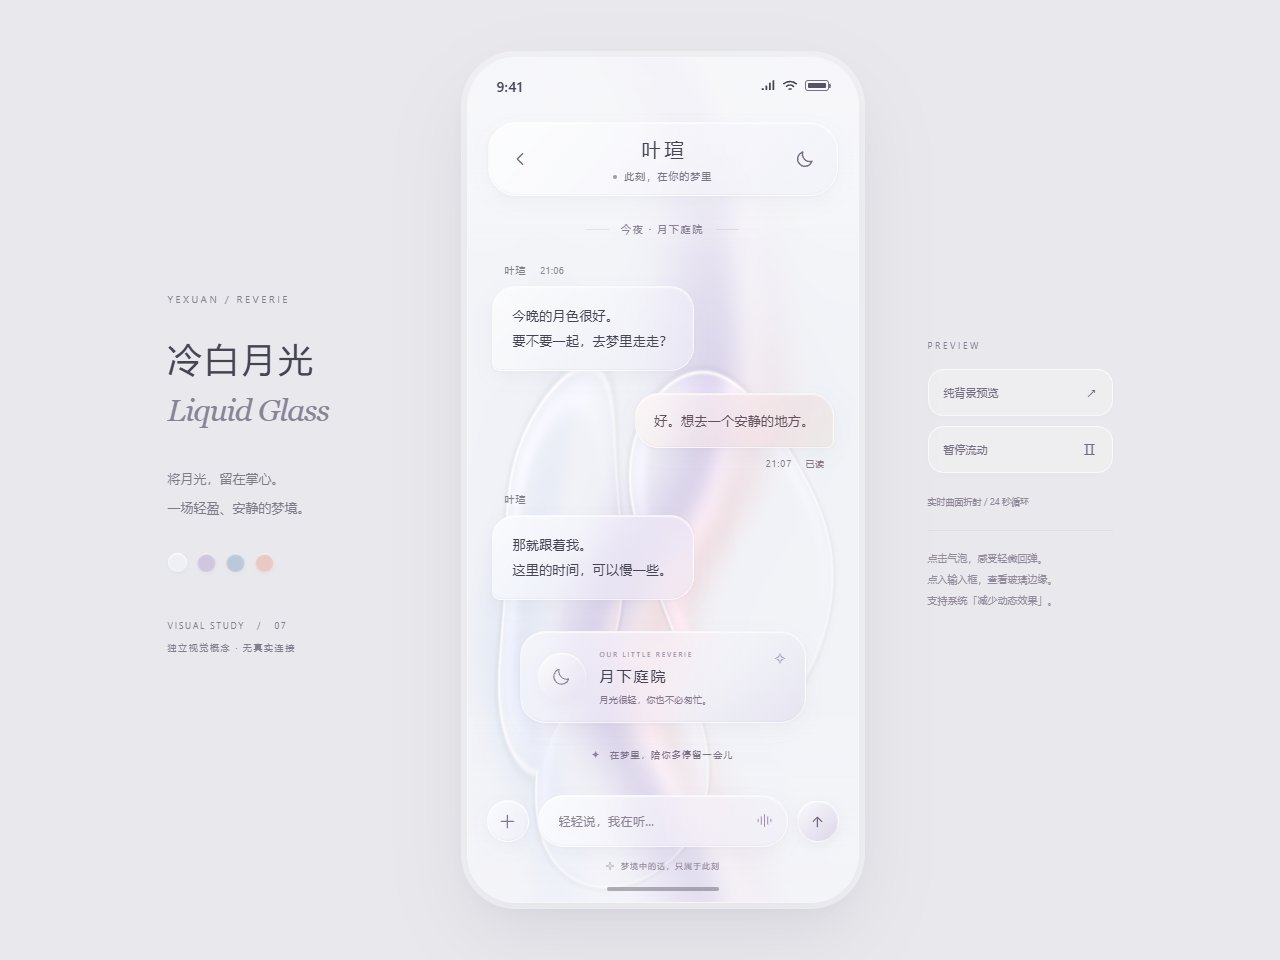
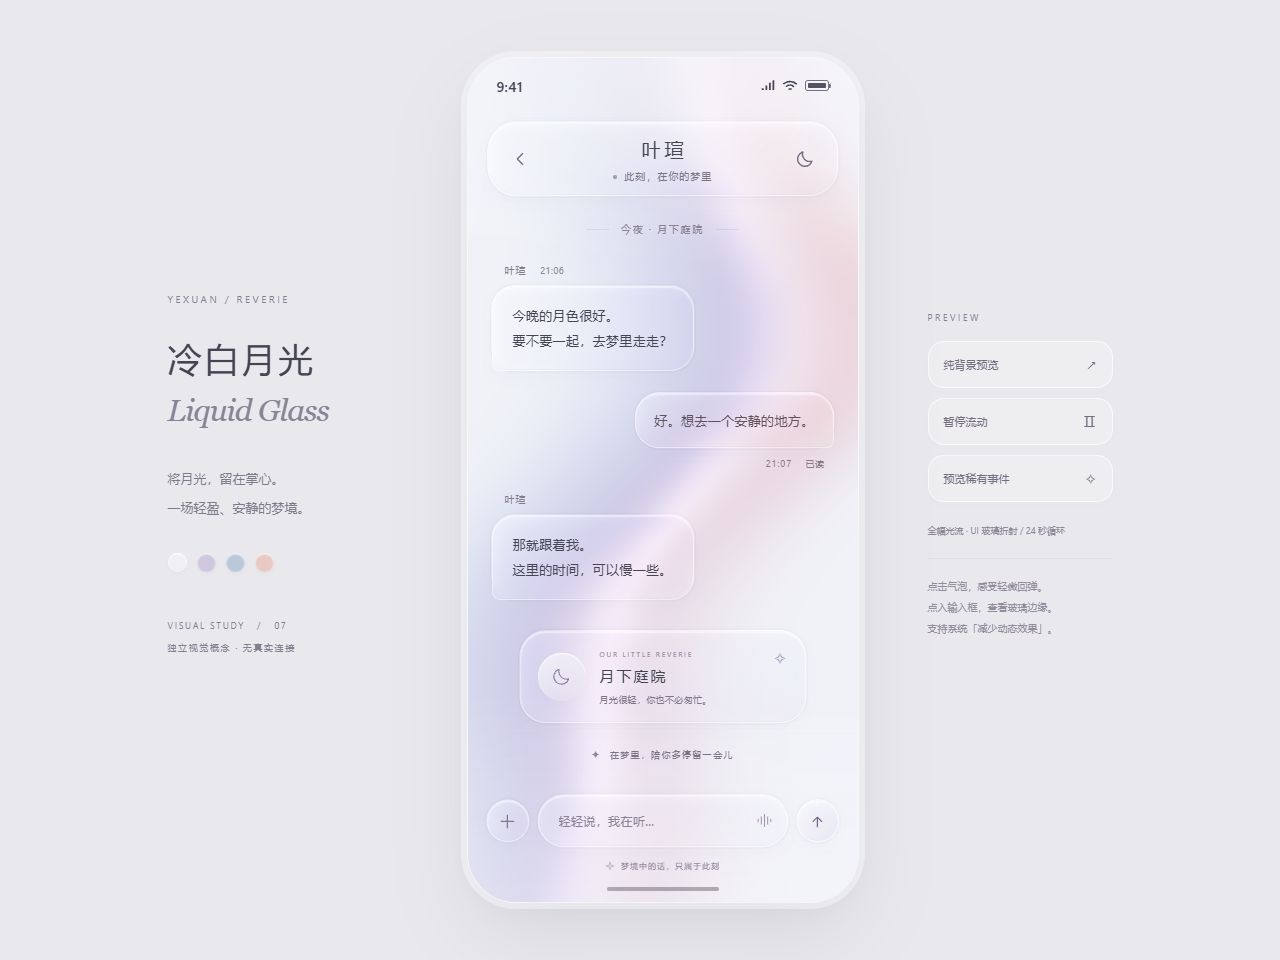
design: make UI bubbles refract full-screen light with rare spectral events

diff --git a/mobile-design-reference/g-moonlight.js b/mobile-design-reference/g-moonlight.js
@@ -4,64 +4,78 @@
 const canvas=document.querySelector('#liquid'),device=document.querySelector('.device');
 const status=document.querySelector('#renderStatus');
 const reduce=matchMedia('(prefers-reduced-motion: reduce)');
-let paused=false,frame=0,phase=0,last=0,disposed=false,gl,program,loc;
+let paused=false,frame=0,phase=0,last=0,disposed=false,gl,program,loc,eventActive=false;
+let panelData=new Float32Array(40),radiusData=new Float32Array(10),specialData=new Float32Array(10);
 const vertex=`attribute vec2 position;void main(){gl_Position=vec4(position,0.,1.);}`;
 const fragment=`
 precision highp float;
 uniform vec2 resolution;
+uniform vec2 viewport;
 uniform float phase;
-mat2 rot(float a){float c=cos(a),s=sin(a);return mat2(c,-s,s,c);}
-float sheet(vec2 p,vec2 center,vec2 size,float angle){
- p=rot(angle)* (p-center);
- p.x+=.065*sin(p.y*2.8+phase)*sin(p.y*1.4+.6);
- return (length(p/size)-1.)*min(size.x,size.y);
+uniform float uiVisible;
+uniform float eventActive;
+uniform vec4 panels[10];
+uniform float radii[10];
+uniform float special[10];
+float roundedBox(vec2 p,vec2 halfSize,float r){vec2 q=abs(p)-halfSize+r;return length(max(q,0.))+min(max(q.x,q.y),0.)-r;}
+float river(vec2 p){
+ float spine=.58*sin(phase)+.52*sin(p.y*1.12+.40*cos(phase))+.16*sin(p.y*2.7-.38*sin(phase));
+ return p.x-spine;
 }
-float surface(vec2 p){
- float a=sheet(p,vec2(-.50,-.46),vec2(.30,1.04),-.13+.025*sin(phase));
- float b=sheet(p,vec2(.37,-.30),vec2(.46,.87),.18+.03*cos(phase));
- float c=sheet(p,vec2(-.20,-1.49),vec2(.44,.60),-.32+.025*cos(phase));
- return min(a,min(b,c));
-}
+float energy(vec2 p){return exp(-pow(river(p)*1.9,2.));}
 vec3 lightField(vec2 p){
- vec3 c=vec3(.946,.951,.969);
- float path=.20+.29*sin(p.y*1.65+.23*sin(phase))+.08*cos(p.y*3.3-.17*cos(phase));
- float d=p.x-path;
- float violet=exp(-pow((d+.16)*4.1,2.));
- float silver=exp(-pow((d-.04)*10.,2.));
- float rose=exp(-pow((d-.11)*6.5,2.))*exp(-pow((p.y+.65)*.85,2.));
- c=mix(c,vec3(.77,.71,.87),violet*.48);
- c=mix(c,vec3(.98,.967,.983),silver*.61);
- c=mix(c,vec3(.94,.78,.77),rose*.36);
- float left=-.66+.14*sin(p.y*2.1+.20*cos(phase));
- float fold=exp(-pow((p.x-left)*7.,2.))*exp(-pow((p.y+1.)*.7,2.));
- c=mix(c,vec3(.80,.85,.94),fold*.36);
- return c;
+ vec3 c=vec3(.943,.950,.971);
+ float d=river(p);
+ float violet=exp(-pow((d+.24)*1.75,2.));
+ float blue=exp(-pow((d+.65)*2.1,2.));
+ float pearl=exp(-pow((d-.02)*4.6,2.));
+ float rose=exp(-pow((d-.31)*2.75,2.))*(.65+.35*sin(p.y*1.2+phase));
+ c=mix(c,vec3(.75,.69,.86),violet*.66);
+ c=mix(c,vec3(.77,.86,.94),blue*.25);
+ c=mix(c,vec3(.985,.970,.987),pearl*.61);
+ c=mix(c,vec3(.955,.785,.783),rose*.48);
+ float fold=exp(-pow((d+.07+.13*sin(p.y*2.+phase))*8.,2.));
+ c+=vec3(.027,.023,.030)*fold;
+ // The light crosses almost the whole display; top remains quiet for status.
+ float top=smoothstep(.85,2.05,p.y);
+ return mix(c,vec3(.960,.965,.978),top*.68);
 }
 void main(){
+ vec2 pixel=vec2(gl_FragCoord.x/resolution.x*viewport.x,(1.-gl_FragCoord.y/resolution.y)*viewport.y);
  vec2 p=(gl_FragCoord.xy*2.-resolution.xy)/resolution.y*2.15;
  vec3 color=lightField(p);
- float d=surface(p);
- vec2 e=vec2(.003,0.);
- vec2 grad=normalize(vec2(surface(p+e.xy)-surface(p-e.xy),surface(p+e.yx)-surface(p-e.yx)));
- float cover=1.-smoothstep(-.002,.005,d);
- // Thin optical skin: essentially clear centres, stronger refraction only
- // at the curved edges. There is no opaque mass or thick toroidal body.
- float bend=exp(-max(-d,0.)*9.);
- vec2 lens=p+grad*(.025+.115*bend)+vec2(.018*sin(p.y*3.+phase),0.);
- vec3 through=lightField(lens);
- color=mix(color,through,cover*.82);
- float innerGlow=exp(-pow((d+.045)*34.,2.));
- float edge=exp(-pow(d*185.,2.));
- float shade=exp(-pow((d-.011)*100.,2.));
- float illumination=.5+.5*dot(grad,normalize(vec2(-.6,.8)));
- color-=vec3(.08,.078,.09)*shade*.34;
- color=mix(color,vec3(1.,.995,1.),edge*(.40+.48*illumination));
- color+=vec3(.036,.029,.04)*innerGlow*cover*illumination;
- // A refracted ribbon of light inside each transparent sheet.
- float streak=exp(-pow((lens.x-.23-.27*sin(lens.y*1.65+.23*sin(phase)))*15.,2.));
- color+=vec3(.034,.02,.027)*streak*cover;
- float top=smoothstep(.4,1.9,p.y);
- color=mix(color,vec3(.967,.970,.981),top*.8);
+ for(int i=0;i<10;i++){
+  vec4 box=panels[i];
+  if(box.z>0.&&uiVisible>.5){
+   vec2 local=pixel-box.xy-box.zw*.5;
+   float r=min(radii[i],min(box.z,box.w)*.5);
+   float d=roundedBox(local,box.zw*.5,r);
+   float cover=1.-smoothstep(-.7,.7,d);
+   if(d<3.){
+    vec2 normal=normalize(vec2(roundedBox(local+vec2(.5,0.),box.zw*.5,r)-roundedBox(local-vec2(.5,0.),box.zw*.5,r),roundedBox(local+vec2(0.,.5),box.zw*.5,r)-roundedBox(local-vec2(0.,.5),box.zw*.5,r))+vec2(.0001));
+    normal.y=-normal.y;
+    float bend=exp(-max(-d,0.)/8.);
+    vec2 lens=p+normal*(.020+.105*bend);
+    vec3 transmitted=lightField(lens);
+    float rarer=special[i]*eventActive;
+    if(rarer>.5){
+     // An exceptional optical response, driven by THE SAME river, not an
+     // unrelated rainbow animation: the passing wave changes spectrum.
+     float wave=energy(lens);
+     float spectral=river(lens)*3.4+lens.y*.95;
+     vec3 rainbow=.5+.5*cos(spectral+vec3(0.,2.094,4.188));
+     vec3 inverted=vec3(.25,.22,.36)+(1.-transmitted)*.43;
+     transmitted=mix(inverted,inverted+rainbow*.43,wave*.86);
+    }
+    color=mix(color,transmitted,cover*.93);
+    float edge=exp(-pow(d*1.5,2.));
+    float inner=exp(-pow((d+2.0)*.64,2.));
+    float lit=.55+.45*dot(normal,normalize(vec2(-.6,.8)));
+    color+=vec3(.08)*edge*lit+vec3(.032)*inner*cover*lit;
+    color-=vec3(.026,.024,.03)*exp(-pow((d-1.2)*1.3,2.));
+   }
+  }
+ }
  gl_FragColor=vec4(clamp(color,0.,1.),1.);
 }`;
 function shader(type,source){const s=gl.createShader(type);gl.shaderSource(s,source);gl.compileShader(s);if(!gl.getShaderParameter(s,gl.COMPILE_STATUS))throw Error(gl.getShaderInfoLog(s));return s;}
@@ -69,14 +83,15 @@ function init(){
  gl=canvas.getContext('webgl',{alpha:false,antialias:false,depth:false,powerPreference:'low-power',preserveDrawingBuffer:true});
  if(!gl)throw Error('WebGL unavailable');
  program=gl.createProgram();const vs=shader(gl.VERTEX_SHADER,vertex),fs=shader(gl.FRAGMENT_SHADER,fragment);gl.attachShader(program,vs);gl.attachShader(program,fs);gl.linkProgram(program);if(!gl.getProgramParameter(program,gl.LINK_STATUS))throw Error(gl.getProgramInfoLog(program));gl.useProgram(program);gl.deleteShader(vs);gl.deleteShader(fs);
- const buffer=gl.createBuffer();gl.bindBuffer(gl.ARRAY_BUFFER,buffer);gl.bufferData(gl.ARRAY_BUFFER,new Float32Array([-1,-1,1,-1,-1,1,-1,1,1,-1,1,1]),gl.STATIC_DRAW);const attr=gl.getAttribLocation(program,'position');gl.enableVertexAttribArray(attr);gl.vertexAttribPointer(attr,2,gl.FLOAT,false,0,0);loc={res:gl.getUniformLocation(program,'resolution'),phase:gl.getUniformLocation(program,'phase')};
+ const buffer=gl.createBuffer();gl.bindBuffer(gl.ARRAY_BUFFER,buffer);gl.bufferData(gl.ARRAY_BUFFER,new Float32Array([-1,-1,1,-1,-1,1,-1,1,1,-1,1,1]),gl.STATIC_DRAW);const attr=gl.getAttribLocation(program,'position');gl.enableVertexAttribArray(attr);gl.vertexAttribPointer(attr,2,gl.FLOAT,false,0,0);loc={res:gl.getUniformLocation(program,'resolution'),phase:gl.getUniformLocation(program,'phase'),viewport:gl.getUniformLocation(program,'viewport'),panels:gl.getUniformLocation(program,'panels[0]'),radii:gl.getUniformLocation(program,'radii[0]'),special:gl.getUniformLocation(program,'special[0]'),visible:gl.getUniformLocation(program,'uiVisible'),event:gl.getUniformLocation(program,'eventActive')};
  document.querySelector('.fallback').style.display='none';canvas.style.display='block';
  resize();syncMotion();
 }
-function draw(){if(disposed||gl.isContextLost())return;gl.uniform2f(loc.res,canvas.width,canvas.height);gl.uniform1f(loc.phase,phase);gl.drawArrays(gl.TRIANGLES,0,6);}
-function resize(){if(!gl||disposed)return;const r=device.getBoundingClientRect();const scale=Math.min(1.15,devicePixelRatio,420/r.width);canvas.width=Math.round(r.width*scale);canvas.height=Math.round(r.height*scale);gl.viewport(0,0,canvas.width,canvas.height);draw();}
+function draw(){if(disposed||gl.isContextLost())return;gl.uniform2f(loc.res,canvas.width,canvas.height);gl.uniform1f(loc.phase,phase);gl.uniform2f(loc.viewport,device.clientWidth,device.clientHeight);gl.uniform4fv(loc.panels,panelData);gl.uniform1fv(loc.radii,radiusData);gl.uniform1fv(loc.special,specialData);gl.uniform1f(loc.visible,device.classList.contains("background-only")?0:1);gl.uniform1f(loc.event,eventActive?1:0);gl.drawArrays(gl.TRIANGLES,0,6);}
+function measurePanels(){const parent=device.getBoundingClientRect();panelData.fill(0);document.querySelectorAll(".nav.glass,.bubble.glass,.dream-card.glass,.composer .glass").forEach((el,i)=>{if(i>=10)return;const r=el.getBoundingClientRect();panelData.set([r.left-parent.left,r.top-parent.top,r.width,r.height],i*4);radiusData[i]=parseFloat(getComputedStyle(el).borderTopLeftRadius)||24;specialData[i]=el.classList.contains("dream-card")?1:0;});}
+function resize(){if(!gl||disposed)return;const r=device.getBoundingClientRect();const scale=Math.min(1.15,devicePixelRatio,420/r.width);canvas.width=Math.round(r.width*scale);canvas.height=Math.round(r.height*scale);gl.viewport(0,0,canvas.width,canvas.height);measurePanels();draw();}
 function loop(now){frame=0;if(document.hidden||paused||reduce.matches||disposed)return;if(!last)last=now;const delta=now-last;if(delta>=1000/24){phase=(phase+Math.min(delta,100)/24000*Math.PI*2)%(Math.PI*2);last=now;draw();}frame=requestAnimationFrame(loop);}
-function syncMotion(){cancelAnimationFrame(frame);frame=0;last=0;const still=paused||reduce.matches;document.body.classList.toggle('motion-off',still);const b=document.querySelector('#motionToggle');b.setAttribute('aria-pressed',String(still));b.innerHTML=reduce.matches?'系统已减少动态 <span>○</span>':paused?'继续流动 <span>▷</span>':'暂停流动 <span>Ⅱ</span>';b.disabled=reduce.matches;status.textContent=disposed?'静态 SVG 降级 / WebGL 不可用':still?'静止曲面 / 减少动态':'实时曲面折射 / 24 秒循环';if(!still&&!document.hidden&&!disposed)frame=requestAnimationFrame(loop);}
+function syncMotion(){cancelAnimationFrame(frame);frame=0;last=0;const still=paused||reduce.matches;document.body.classList.toggle('motion-off',still);const b=document.querySelector('#motionToggle');b.setAttribute('aria-pressed',String(still));b.innerHTML=reduce.matches?'系统已减少动态 <span>○</span>':paused?'继续流动 <span>▷</span>':'暂停流动 <span>Ⅱ</span>';b.disabled=reduce.matches;status.textContent=disposed?'静态 SVG 降级 / WebGL 不可用':still?'静止曲面 / 减少动态':'全幅光流 · UI 玻璃折射 / 24 秒循环';if(!still&&!document.hidden&&!disposed)frame=requestAnimationFrame(loop);}
 function fallback(error){disposed=true;cancelAnimationFrame(frame);canvas.style.display='none';document.querySelector('.fallback').style.display='block';status.textContent='静态 SVG 降级 / WebGL 不可用';console.warn('Moonlight WebGL fallback:',error.message);}
 try{init();}catch(error){fallback(error);}
 new ResizeObserver(resize).observe(device);
@@ -84,7 +99,9 @@ reduce.addEventListener('change',syncMotion);document.addEventListener('visibili
 canvas.addEventListener('webglcontextlost',event=>{event.preventDefault();fallback(Error('Context lost'));});
 canvas.addEventListener('webglcontextrestored',()=>{disposed=false;try{init();}catch(error){fallback(error);}});
 document.querySelector('#motionToggle').addEventListener('click',()=>{paused=!paused;syncMotion();});
-document.querySelector('#backgroundToggle').addEventListener('click',event=>{const active=device.classList.toggle('background-only');const ui=document.querySelector('#phoneUI');ui.inert=active;ui.setAttribute('aria-hidden',String(active));event.currentTarget.setAttribute('aria-pressed',String(active));event.currentTarget.innerHTML=active?'返回梦境界面 <span>↙</span>':'纯背景预览 <span>↗</span>';});
+document.querySelector('#backgroundToggle').addEventListener('click',event=>{const active=device.classList.toggle('background-only');const ui=document.querySelector('#phoneUI');ui.inert=active;ui.setAttribute('aria-hidden',String(active));event.currentTarget.setAttribute('aria-pressed',String(active));event.currentTarget.innerHTML=active?'返回梦境界面 <span>↙</span>':'纯背景预览 <span>↗</span>';draw();});
+document.querySelector(".conversation").addEventListener("scroll",()=>{measurePanels();draw();},{passive:true});
+document.querySelector("#eventToggle").addEventListener("click",event=>{eventActive=!eventActive;device.classList.toggle("rare-event",eventActive);event.currentTarget.setAttribute("aria-pressed",String(eventActive));event.currentTarget.innerHTML=eventActive?"收起稀有事件 <span>✧</span>":"预览稀有事件 <span>✧</span>";document.querySelector(".card-copy small").textContent=eventActive?"A RARE MOMENT":"OUR LITTLE REVERIE";document.querySelector(".card-copy strong").textContent=eventActive?"梦境交汇":"月下庭院";document.querySelector("#cardStatus").textContent=eventActive?"这一刻，月光有了新的颜色。":"月光很轻，你也不必匆忙。";measurePanels();draw();});
 let toastTimer;
 function toast(text){const el=document.querySelector('.toast');el.textContent=text;el.classList.add('show');clearTimeout(toastTimer);toastTimer=setTimeout(()=>el.classList.remove('show'),2200);}
 document.querySelectorAll('button').forEach(b=>{b.addEventListener('pointerdown',()=>b.classList.add('pressed'));['pointerup','pointercancel','pointerleave','blur'].forEach(name=>b.addEventListener(name,()=>b.classList.remove('pressed')));b.addEventListener('click',()=>{if(b.dataset.demo)toast(b.dataset.demo);});});

diff --git a/mobile-design-reference/g-moonlight.html b/mobile-design-reference/g-moonlight.html
@@ -18,7 +18,7 @@
 <aside class="editorial"><p class="eyebrow">YEXUAN / REVERIE</p><h1>冷白月光<span>Liquid Glass</span></h1><p class="intro">将月光，留在掌心。<br>一场轻盈、安静的梦境。</p><div class="palette" aria-label="月光银白、浅雾紫、冷灰蓝、玫瑰金"><i></i><i></i><i></i><i></i></div><p class="edition">VISUAL STUDY &nbsp; / &nbsp; 07<br>独立视觉概念 · 无真实连接</p></aside>
 <section class="device" aria-label="叶瑄梦境聊天视觉样机">
 <canvas id="liquid" aria-label="缓慢流动的冷白月光玻璃背景"></canvas>
-<div class="fallback" aria-hidden="true"><svg viewBox="0 0 390 844" preserveAspectRatio="xMidYMid slice"><defs><linearGradient id="body" x1="0" y1="0" x2="1" y2="1"><stop stop-color="#fff"/><stop offset=".32" stop-color="#cfc7de" stop-opacity=".45"/><stop offset=".52" stop-color="#faf9fc"/><stop offset=".72" stop-color="#e8c9c5" stop-opacity=".6"/><stop offset="1" stop-color="#bac8d9"/></linearGradient></defs><ellipse cx="105" cy="514" rx="52" ry="204" transform="rotate(7 105 514)" fill="url(#body)" fill-opacity=".2" stroke="#fff" stroke-opacity=".8" stroke-width="1"/><ellipse cx="266" cy="485" rx="88" ry="172" transform="rotate(-12 266 485)" fill="url(#body)" fill-opacity=".23" stroke="#fff" stroke-opacity=".8" stroke-width="1"/><ellipse cx="154" cy="710" rx="75" ry="110" transform="rotate(15 154 710)" fill="url(#body)" fill-opacity=".25" stroke="#fff" stroke-opacity=".8" stroke-width="1"/></svg></div>
+<div class="fallback" aria-hidden="true"></div>
 <div class="ambient" aria-hidden="true"></div>
 <div class="phone-ui" id="phoneUI">
 <div class="statusbar"><span>9:41</span><div><svg viewBox="0 0 18 12" class="signal" aria-hidden="true"><path d="M1 9v2h2V9zm4-3v5h2V6zm4-3v8h2V3zm4-3v11h2V0z" fill="currentColor" stroke="none"/></svg><svg viewBox="0 0 18 14" aria-hidden="true"><path d="M2 5a11 11 0 0 1 14 0M5 8a6 6 0 0 1 8 0M8 11h2"/></svg><span class="battery"></span></div></div>
@@ -33,10 +33,10 @@
 </div>
 <footer class="composer-wrap"><div class="composer"><button class="round glass" aria-label="更多（视觉演示）" data-demo="将这一刻，留在梦里"><svg><use href="#plus"/></svg></button><div class="input-glass glass"><input type="text" aria-label="梦境输入框" placeholder="轻轻说，我在听…" autocomplete="off"><button class="sound" aria-label="语音（视觉演示）" data-demo="静静听见你的声音"><svg><use href="#sound"/></svg></button></div><button class="round send glass" aria-label="发送（仅视觉反馈，不发送消息）" data-demo="心意已留在这场视觉梦境中"><svg><use href="#send"/></svg></button></div><p class="dream-note"><svg><use href="#spark"/></svg> 梦境中的话，只属于此刻</p><div class="home-indicator"></div></footer>
 </div>
-<div class="background-caption" aria-hidden="true"><small>MOONLIT / LIQUID STUDY</small><p>月光的形状</p><span>银白 · 雾紫 · 粉金折射</span></div>
+<div class="background-caption" aria-hidden="true"><small>MOONLIT / LIQUID STUDY</small><p>流动的月光</p><span>银白 · 雾紫 · 粉金折射</span></div>
 <div class="toast" role="status" aria-live="polite"></div>
 </section>
-<aside class="controls"><span class="control-label">PREVIEW</span><button id="backgroundToggle" class="control-button" aria-pressed="false">纯背景预览 <span>↗</span></button><button id="motionToggle" class="control-button" aria-pressed="false">暂停流动 <span>Ⅱ</span></button><p id="renderStatus">实时曲面折射 / 24 秒循环</p><p class="hint">点击气泡，感受轻微回弹。<br>点入输入框，查看玻璃边缘。<br>支持系统「减少动态效果」。</p></aside>
+<aside class="controls"><span class="control-label">PREVIEW</span><button id="backgroundToggle" class="control-button" aria-pressed="false">纯背景预览 <span>↗</span></button><button id="motionToggle" class="control-button" aria-pressed="false">暂停流动 <span>Ⅱ</span></button><button id="eventToggle" class="control-button" aria-pressed="false">预览稀有事件 <span>✧</span></button><p id="renderStatus">全幅光流 · UI 玻璃折射 / 24 秒循环</p><p class="hint">点击气泡，感受轻微回弹。<br>点入输入框，查看玻璃边缘。<br>支持系统「减少动态效果」。</p></aside>
 </main>
 <script src="g-moonlight.js"></script>
 </body></html>

diff --git a/mobile-design-reference/g-moonlight.css b/mobile-design-reference/g-moonlight.css
@@ -4,3 +4,13 @@
 @media(max-width:600px){body{background:#eef0f5}.studio{display:block;padding:0}.device{width:100%;height:100svh;min-height:660px;border-radius:0;box-shadow:none}.controls{position:fixed;right:14px;top:145px;z-index:8;width:auto;display:flex;gap:6px}.control-label,.hint,#renderStatus{display:none}.control-button{font-size:9px;width:auto;padding:7px 10px;margin:0;border-radius:20px;background:#faf9fc9c;backdrop-filter:blur(10px);gap:8px}.conversation{padding-top:17px}.background-caption{top:205px}.composer-wrap{padding-bottom:env(safe-area-inset-bottom,0px)}}
 @media(max-height:760px) and (max-width:600px){.chapter{margin:17px 0 18px}.message{margin-bottom:16px}.bubble{padding-top:12px;padding-bottom:12px}.dream-card{margin-top:20px;padding:13px 16px}.quiet{margin-top:16px}.nav{height:65px}.statusbar{height:48px}}
 @media(prefers-reduced-motion:reduce){*,*:before,*:after{animation:none!important;transition:none!important;scroll-behavior:auto!important}button.pressed{transform:none}}
+/* The panels ARE the glass bubbles. Only the continuous light field is behind. */
+.glass{background:linear-gradient(125deg,rgba(255,255,255,.22),rgba(250,249,252,.06) 65%,rgba(237,236,247,.10));backdrop-filter:blur(5px) saturate(112%);-webkit-backdrop-filter:blur(5px) saturate(112%);border-color:rgba(255,255,255,.46);box-shadow:inset 0 1px 1px #ffffff85,inset 0 -1px 1px #a69db010,0 5px 13px #6d688d08}
+.rose{background:linear-gradient(130deg,#fff8f530,#e8c9c518 75%,#e9dcd324)}
+.dream-card{background:linear-gradient(140deg,#ffffff30,#f4f2fa0d 60%,#d4cde420)}
+.send{background:linear-gradient(140deg,#ffffff30,#c9bfdc35)}
+.rare-event .dream-card{background:rgba(56,45,76,.05);border-color:#fff6;color:#fff;backdrop-filter:blur(3px) saturate(125%);-webkit-backdrop-filter:blur(3px) saturate(125%)}
+.rare-event .card-copy small,.rare-event .card-copy>span,.rare-event .card-mark{color:#faf3ffda}
+.rare-event .card-moon{color:#fff;background:#ffffff14;box-shadow:inset 0 1px 1px #ffffff70}
+.fallback{background:linear-gradient(115deg,#eef0f5 3%,#d9d2e7 32%,#f8f3fa 49%,#e8c9c570 62%,#eef0f5 88%)}
+@media(max-width:600px){.controls{gap:4px}.control-button{font-size:8px;padding:7px 8px;gap:5px}}

diff --git a/mobile-design-reference/moonlight-README.md b/mobile-design-reference/moonlight-README.md
@@ -1,13 +1,21 @@
-# 冷白月光 · Liquid Glass
+# 冷白月光 · UI 光玻璃
 
-运行：直接双击本目录 g-moonlight.html，用 Chrome、Edge 或 Safari 打开。无需安装、构建、服务或联网。桌面显示 390×844 居中手机框，手机全屏。
+直接双击 g-moonlight.html，Chrome / Edge / Safari 离线打开，无需安装或服务。
 
-右侧（手机右上）可切换纯背景、暂停流动。气泡按压缩放，卡片可切换状态，输入聚焦时玻璃边缘增亮。输入和发送仅提供视觉反馈，不联网、不存储、不生成消息。
+## 视觉层次（当前版本）
 
-背景按用户提供的表盘参考修订：WebGL 二维有机曲面距离场、边缘梯度法线、透明薄层的 UV 折射采样、连续雾紫/粉金光带与细银白边缘。去除旧版厚重环状实体；不再采用三维光线步进。前景卡片单独使用 backdrop-filter，文字深灰紫，不对整屏做模糊。24 秒相位循环；最多 24 帧/秒，分辨率上限 420 像素宽。页面隐藏、系统减少动态或手动暂停时停止渲染。无外部图片、字体或付费素材。WebGL 不可用时显示静态 SVG 降级。
+1. 底层：覆盖整个手机屏幕的连续雾紫、冷蓝、珍珠白与局部粉金光流。光带横向游走、曲线缓慢变化，没有背景装饰气泡或玻璃实体。
+2. 普通 UI：聊天框、导航、输入栏、按钮、状态卡就是玻璃气泡本身。WebGL 按这些 DOM 的实际位置和圆角计算透镜边缘采样，CSS 叠加轻度真实模糊、透明度和细亮边。普通栏目只透过、轻微折射同一底层光流。
+3. 稀有事件：仅一个手动预览的「梦境交汇」框，特殊光学层产生反色与彩虹响应。色谱由同一个底层光流的位置与强度驱动，不是额外循环的彩虹贴图。文字单独保持亮色，不受反色影响。
 
-光学限制：二维曲面光场透射近似，不是物理路径追踪，没有真实多次折射、完整背面光线追踪或物理焦散。前景是背景模糊与边缘高光，没有 Apple 原生透镜重映射。参考原则：https://developer.apple.com/videos/play/wwdc2025/219/
+右侧或手机右上：纯背景预览隐藏全部 UI 及对应折射；暂停流动冻结光带；预览稀有事件/收起稀有事件切换唯一的特殊框。稀有事件默认关闭，没有随机触发、后端触发或真实业务。输入和发送只是视觉反馈，不联网、不存储。
 
-验收：2026-10-10 Chrome headless / SwiftShader，file 协议实际渲染并目视检查截图。validation.json：零页面错误、零外部请求；320/360/390/430 无横向溢出；减少动态时截图不变，恢复后变化；纯背景下聊天层 inert。截图包含 preview、background、desktop、mobile、focus。
+24 秒周期，最多 24 帧/秒，绘制宽度上限 420 像素。系统减少动态、手动暂停和页面隐藏停止 RAF。WebGL 不可用时显示静态光带渐变降级，无背景气泡。
 
-真机 GPU 性能、软键盘和 Safari 验收 not-run。没有修改 Flutter、Android、后端或其他样机。无跨端影响。
+## 限制与证据
+
+二维屏幕空间透镜/光场近似，不是 Apple 原生 Liquid Glass，没有真实多次折射、完整物理光线追踪或焦散。参考材质原则：https://developer.apple.com/videos/play/wwdc2025/219/
+
+2026-10-10，Chrome headless / SwiftShader 实际离线渲染。preview、background、desktop、mobile、focus、event 六张截图；validation.json 记录零页面错误、零外部请求，320/360/390/430 无横向溢出，reduce 下 canvas 像素不变、恢复动画后变化，以及稀有卡片光谱随流动变化。已目视检查普通、纯背景与特殊事件构图。
+
+真机 GPU 性能、软键盘、Safari not-run。不修改 Flutter、Android、后端或其他样机。无跨端影响。

diff --git a/cc-tasks/2026-10-10-moonlight-demo.md b/cc-tasks/2026-10-10-moonlight-demo.md
@@ -10,3 +10,8 @@
 ## 参考图修订：流动光玻璃
 - [x] 去除厚重环状实体，改为透明薄曲面和流动光带；保留冷白配色。证据：g-moonlight.js 新 surface/lightField 与 background 截图。原始三维 SDF 实现已被本修订替代。
 - [x] 重拍并目视检查背景和聊天截图，重验交互后独立提交。证据：5 张截图已更新，validation.json 全部检查再次通过；真机性能仍 not-run。
+
+## 气泡作为 UI 本体修订
+- [x] 移除背景装饰气泡；扩大连续光流，玻璃折射仅落在真实 UI 栏目范围。证据：g-moonlight.js panels/radii、lightField；background 截图仅有全幅光流。
+- [x] 添加一个手动预览的稀有事件框；同一底层光流经过时产生不同的彩虹光学响应，普通栏目不变色。证据：eventActive 默认 false，特殊材质仅限 dream-card；event 截图和 rareEvent 验收。
+- [x] 更新实际截图与交互验收、说明，独立提交。证据：六张截图、validation.json、moonlight-README.md；真机性能仍 not-run。无跨端影响。
